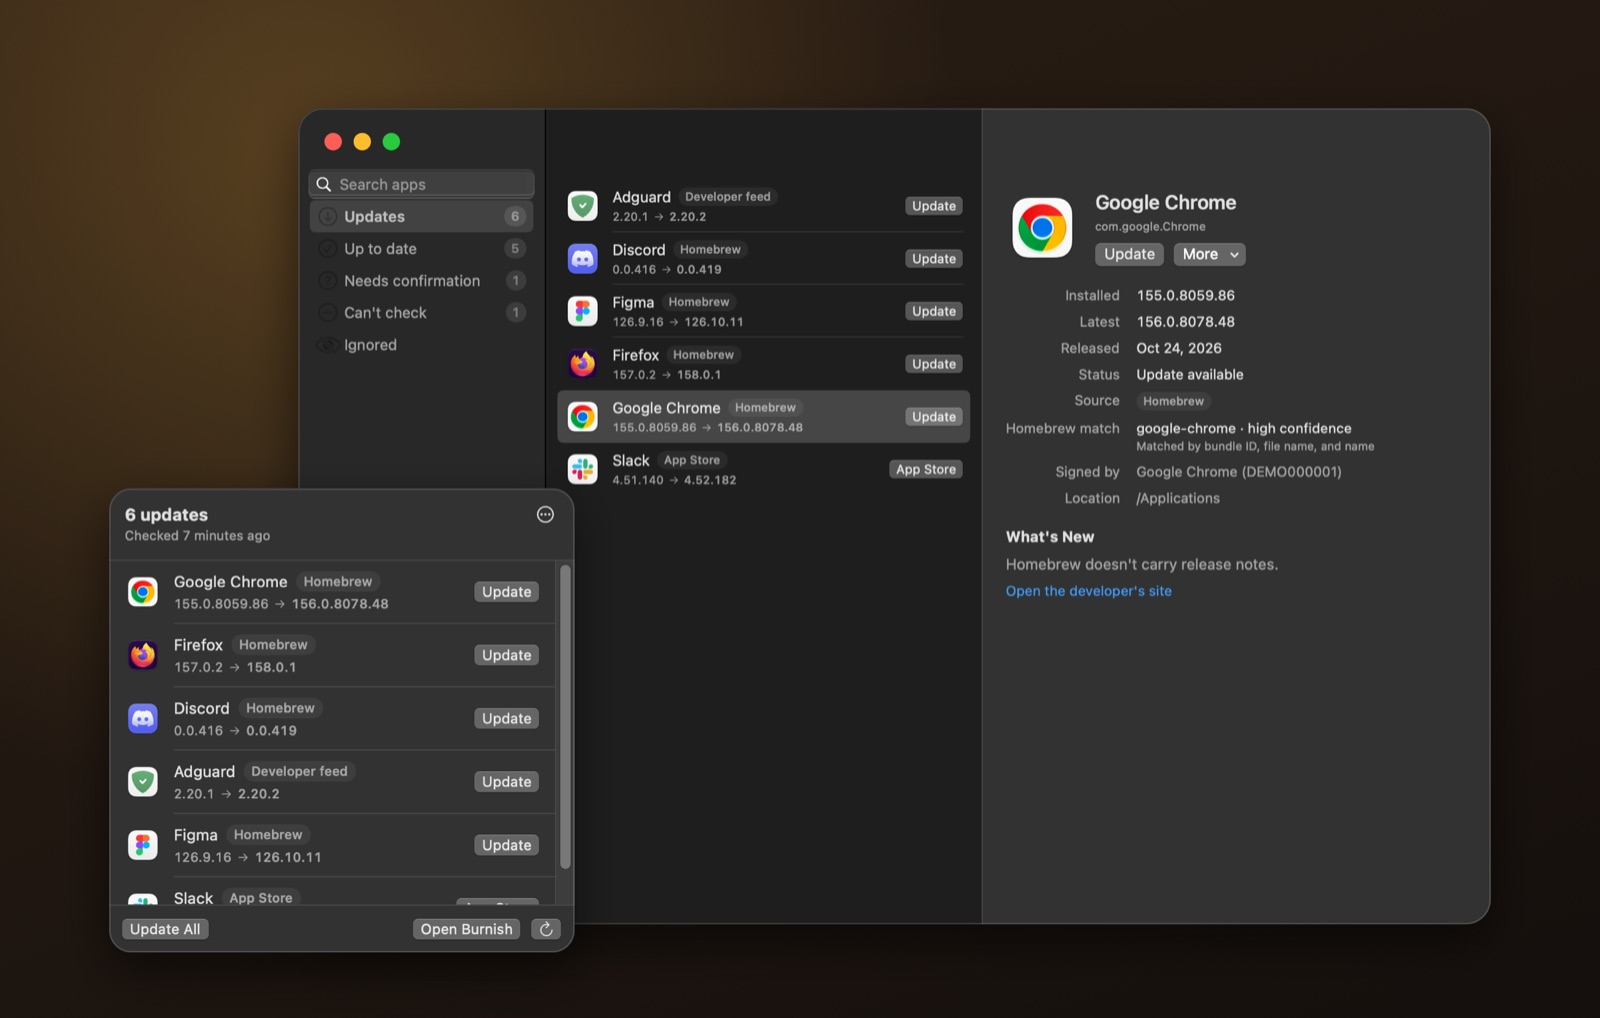
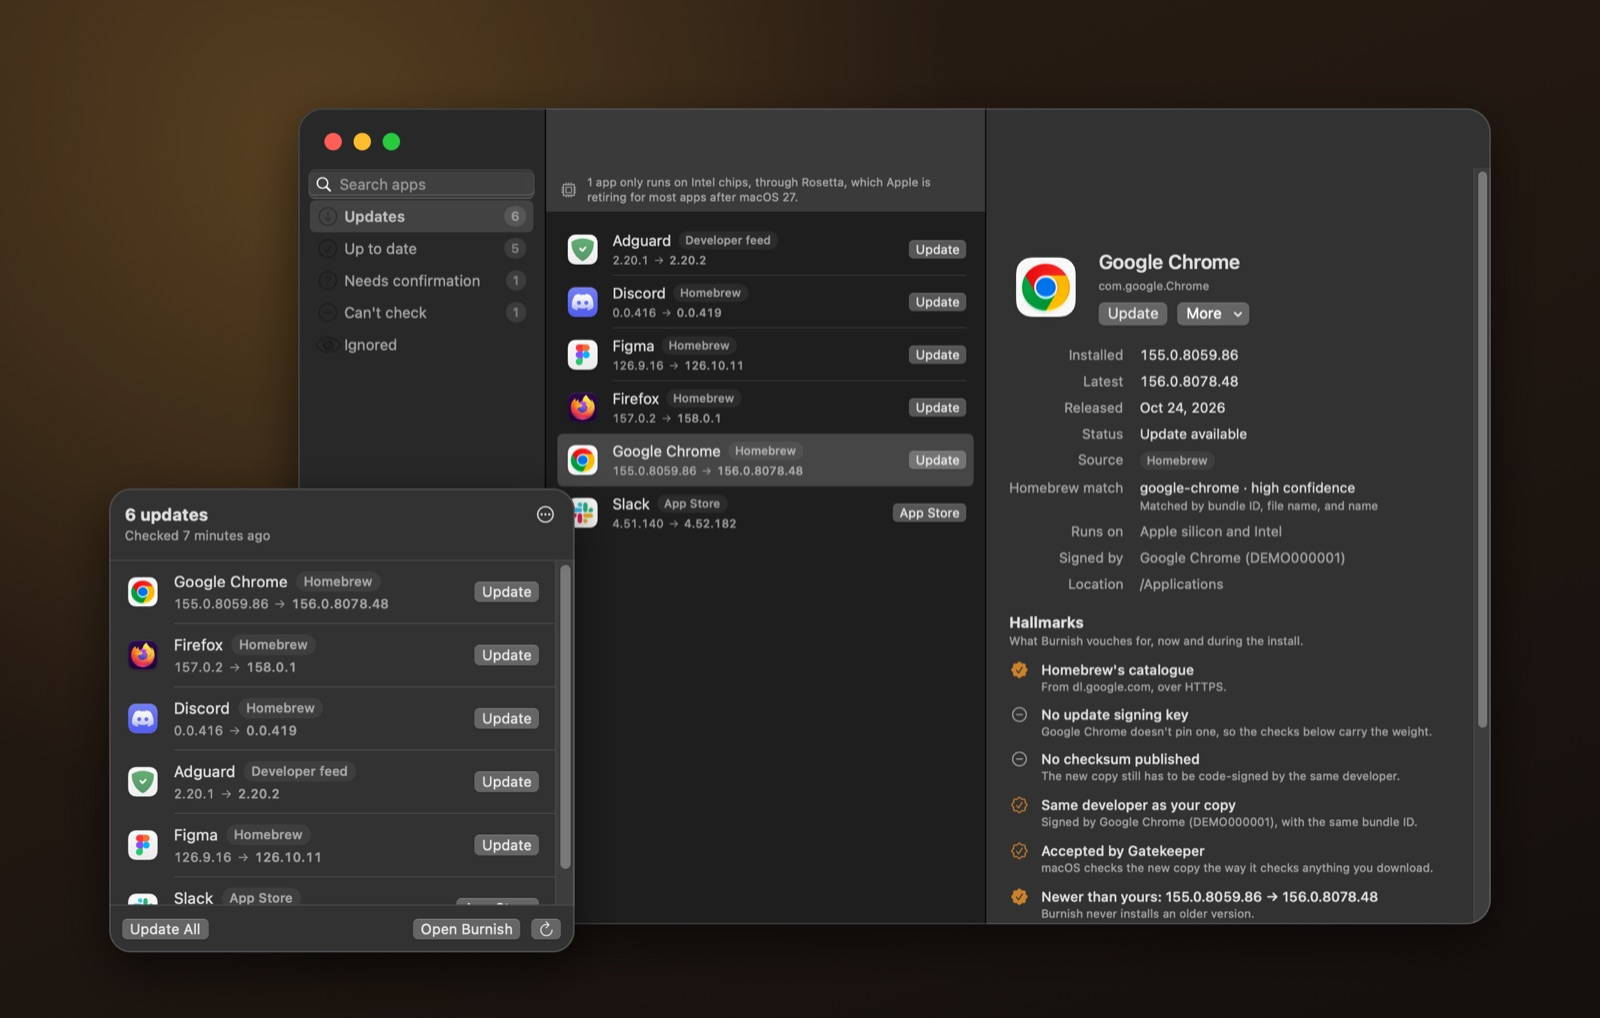
Tell the website about hallmarks and updates that wait
The feature cards mention hallmarks, automatic updates and the 30-day way back, the FAQ answers
whether Burnish updates apps without asking, the privacy list includes community feeds, and the
product shot shows the new window.

Changed region(s): [[0.3438, 0.0914, 0.9062, 0.9136], [0.9062, 0.1827, 0.9375, 0.7004]]

diff --git a/site/index.html b/site/index.html
@@ -140,18 +140,18 @@
         </article>
         <article class="card reveal">
           <svg viewBox="0 0 24 24" aria-hidden="true"><rect x="4" y="10.5" width="16" height="10" rx="2.5" /><path d="M8 10.5V7.5a4 4 0 018 0v3" /></svg>
-          <h3>Eight checks per install</h3>
-          <p>The developer's signature, the published checksum, the same team as your copy, Gatekeeper. Any check fails, nothing changes.</p>
+          <h3>Hallmarks on every update</h3>
+          <p>See where each update comes from and the checks it must pass: the developer's signature, the checksum, the same team as your copy, Gatekeeper. One fails, nothing changes.</p>
         </article>
         <article class="card reveal">
           <svg viewBox="0 0 24 24" aria-hidden="true"><path d="M9 7L4.5 11.5 9 16" /><path d="M5 11.5h9a5.5 5.5 0 010 11h-2" transform="translate(0 -3)" /></svg>
           <h3>Put Back, anytime</h3>
-          <p>Every old version goes to the Trash, never deleted. Changed your mind? One click brings it back.</p>
+          <p>Every old version goes to the Trash, never deleted, or waits 30 days in Burnish's own folder if you like. Changed your mind? One click brings it back.</p>
         </article>
         <article class="card reveal">
           <svg viewBox="0 0 24 24" aria-hidden="true"><path d="M3.5 18.5h17" /><path d="M6 18.5a6 6 0 0112 0" /><path d="M12 12.5v-2" /><path d="M10 10.5h4" /></svg>
           <h3>Quiet in your menu bar</h3>
-          <p>One check a day, at most one notification, a desktop widget if you like. Developers' own updaters get their turn too.</p>
+          <p>One check a day, at most one notification. Minor updates can install themselves after a wait you choose; major ones always wait for you.</p>
         </article>
         <article class="card reveal">
           <svg viewBox="0 0 24 24" aria-hidden="true"><circle cx="12" cy="12" r="8.5" /><path d="M6 18L18 6" /></svg>
@@ -235,7 +235,7 @@
         <li class="reveal"><b>Homebrew's app list</b><span>At most once a day. Nothing about your apps.</span></li>
         <li class="reveal"><b>Apple's App Store lookup</b><span>Your App Store apps' bundle IDs. You can turn it off.</span></li>
         <li class="reveal"><b>Each app's own update feed</b><span>And the download itself, when you update.</span></li>
-        <li class="reveal"><b>GitHub</b><span>For apps whose downloads live there, community match fixes, and Burnish's own updates.</span></li>
+        <li class="reveal"><b>GitHub</b><span>For apps whose downloads live there, community match fixes and feeds, and Burnish's own updates.</span></li>
       </ul>
     </section>
 
@@ -253,6 +253,10 @@
       <details class="reveal">
         <summary>What about App Store apps?</summary>
         <p>Burnish finds their updates and hands them to the App Store: several at once open the Updates page, where Apple's Update All does them together.</p>
+      </details>
+      <details class="reveal">
+        <summary>Can it update apps without asking?</summary>
+        <p>If you turn it on. Minor updates for apps that aren't open install once they've been out a few days, security fixes right away. Major upgrades, which may be paid, always wait for you, and each app can have its own rule.</p>
       </details>
       <details class="reveal">
         <summary>Why does it say "Can't check" for some apps?</summary>
